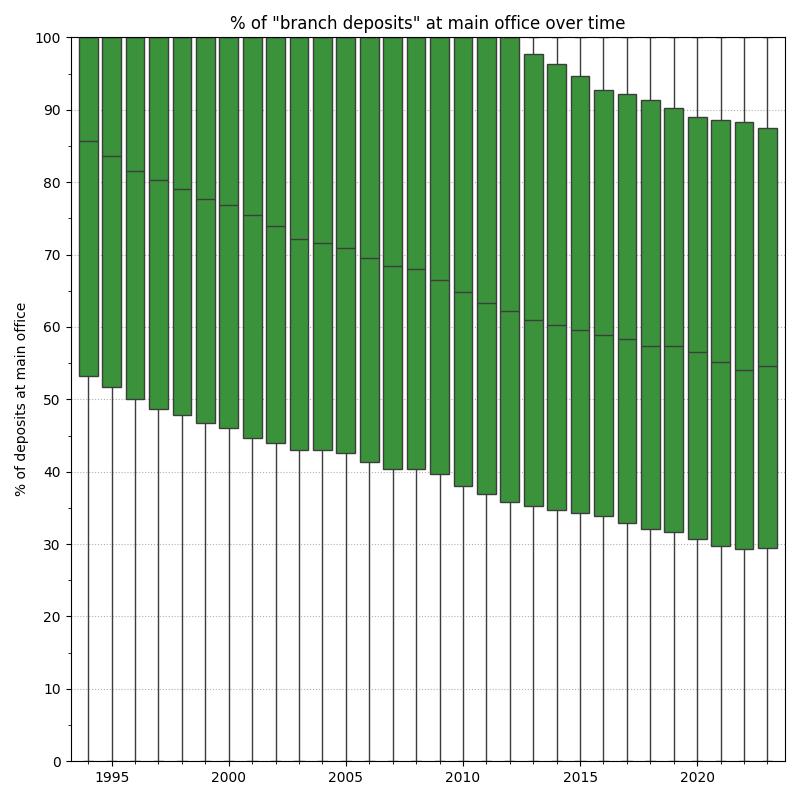
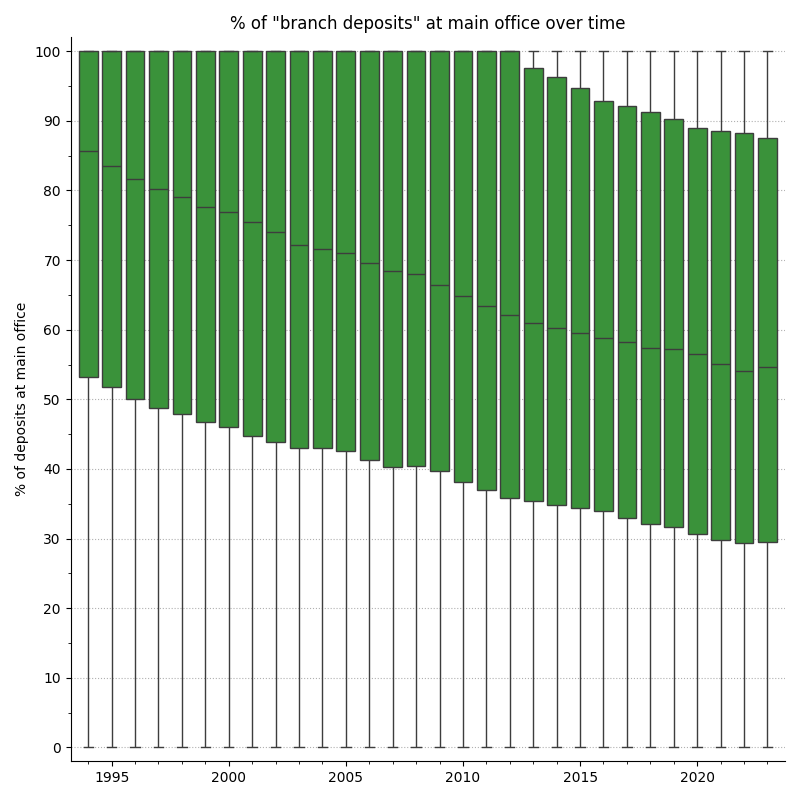
update graphics to look better

diff --git a/sod2_figures.py b/sod2_figures.py
@@ -69,14 +69,16 @@ print('calc mo share')
 # -----------------------------------------------------------------------------
 # plot main office share
 lims = (hhi['YEAR'].min() - 0.75, hhi['YEAR'].max() + 0.75)
-hhi_f, (hhi_l, hhi_r) = plt.subplots(1, 2, figsize=(8, 4))
+hhi_f, (hhi_l, hhi_r) = plt.subplots(1, 2, figsize=(12, 6))
 sns.boxplot(x='YEAR', y='BRS_hhi', ax=hhi_l, data=hhi, native_scale=True)
 sns.boxplot(x='YEAR', y='DEP_hhi', ax=hhi_r, data=hhi, native_scale=True,
             color='tab:orange')
-hhi_l.set(xlabel='', ylabel='Branch HHI', xlim=lims, ylim=(0, 10_000))
-hhi_r.set(xlabel='', ylabel='Deposit HHI', xlim=lims, ylim=(0, 10_000))
+hhi_l.set(xlabel='', ylabel='Branch HHI', xlim=lims, ylim=(0, 10_000 + 250))
+hhi_r.set(xlabel='', ylabel='Deposit HHI', xlim=lims, ylim=(0, 10_000 + 250))
 hhi_r.yaxis.tick_right()
 hhi_r.yaxis.set_label_position('right')
+hhi_l.spines[['right', 'top']].set_visible(False)
+hhi_r.spines[['left', 'top']].set_visible(False)
 for ax in [hhi_l, hhi_r]:
     ax.yaxis.set_major_locator(ticker.MultipleLocator(2_000))
     ax.yaxis.set_minor_locator(ticker.MultipleLocator(1_000))
@@ -94,9 +96,10 @@ sns.boxplot(
     x='YEAR', y='mo_share', data=mo_dep, ax=mos_a, native_scale=True,
     color='tab:green',  # inner='quart'
 )
+mos_a.spines[['right', 'top']].set_visible(False)
 mos_a.set(
-    xlabel='', ylabel='% of deposits at main office', xlim=lims, ylim=(0, 100),
-    title='% of "branch deposits" at main office over time')
+    xlabel='', ylabel='% of deposits at main office', xlim=lims,
+    ylim=(-2, 102), title='% of "branch deposits" at main office over time')
 mos_a.yaxis.set_major_locator(ticker.MultipleLocator(10))
 mos_a.yaxis.set_minor_locator(ticker.MultipleLocator(5))
 mos_a.xaxis.set_major_locator(ticker.MultipleLocator(5))
